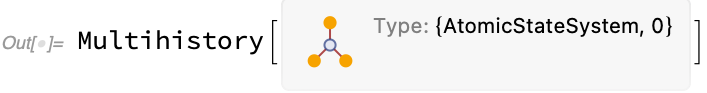
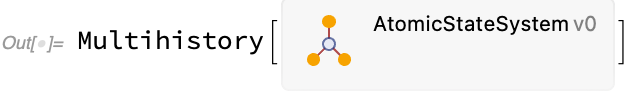
Update docs.

Changed region(s): [[0.0, 0.1505, 0.9937, 0.7312]]

diff --git a/Documentation/Types/Multihistory/AtomicStateSystem0.md b/Documentation/Types/Multihistory/AtomicStateSystem0.md
@@ -1,6 +1,6 @@
-# {AtomicStateSystem, 0}
+# AtomicStateSystem Multihistory
 
-**`{AtomicStateSystem, 0}`** is a [`Multihistory`](README.md) type currently returned by
+[**`AtomicStateSystem`**](/Documentation/Systems/AtomicStateSystem.md) [`Multihistory`](README.md) object is returned by
 [generators](/Documentation/Generators/README.md) of the
 [`AtomicStateSystem`](/Documentation/Systems/AtomicStateSystem.md):
 
@@ -8,8 +8,8 @@
 In[] := GenerateMultihistory[AtomicStateSystem[a_ :> a + 1], MaxEvents -> 10][0]
 ```
 
-<img src="/Documentation/Images/AtomicStateMultihistory.png" width="424.2">
+<img src="/Documentation/Images/AtomicStateMultihistory.png" width="378.6">
 
 Internally, [`AtomicStateSystem`](/Documentation/Systems/AtomicStateSystem.md) is implemented by running a special case
-of the [`MultisetSubstitutionSystem`](/Documentation/Systems/MultisetSubstitutionSystem.md). `{AtomicStateSystem, 0}`
-contains a corresponding [`{MultisetSubstitutionSystem, 0}`](MultisetSubstitutionSystem0.md) and can be converted to it.
+of the [`MultisetSubstitutionSystem`](/Documentation/Systems/MultisetSubstitutionSystem.md). The object contains a
+[`MultisetSubstitutionSystem` multihistory](MultisetSubstitutionSystem0.md) and can be converted to it.

diff --git a/Documentation/Generators/MaxDestroyerEvents.md b/Documentation/Generators/MaxDestroyerEvents.md
@@ -6,7 +6,7 @@ setting `MaxDestroyerEvents` to one.
 
 ```wl
 In[] := #["ExpressionsEventsGraph", VertexLabels -> Placed[Automatic, After]] & @
-  SetReplaceTypeConvert[{WolframModelEvolutionObject, 2}] @
+  SetReplaceTypeConvert[WolframModelEvolutionObject] @
     GenerateMultihistory[MultisetSubstitutionSystem[{a_, b_} :> {a + b}], MaxDestroyerEvents -> 1] @ {1, 2, 3}
 ```
 
@@ -17,7 +17,7 @@ full multihistory object subject to other selection and stopping parameters:
 
 ```wl
 In[] := #["ExpressionsEventsGraph", VertexLabels -> Placed[Automatic, After]] & @
-  SetReplaceTypeConvert[{WolframModelEvolutionObject, 2}] @
+  SetReplaceTypeConvert[WolframModelEvolutionObject] @
     GenerateMultihistory[
       MultisetSubstitutionSystem[{a_, b_} :> {a + b}], MaxDestroyerEvents -> Infinity, MaxGeneration -> 1] @ {1, 2, 3}
 ```
@@ -28,7 +28,7 @@ If set to a finite number, it will generate a partial multihistory:
 
 ```wl
 In[] := #["ExpressionsEventsGraph", VertexLabels -> Placed[Automatic, After]] & @
-  SetReplaceTypeConvert[{WolframModelEvolutionObject, 2}] @
+  SetReplaceTypeConvert[WolframModelEvolutionObject] @
     GenerateMultihistory[MultisetSubstitutionSystem[{a_, b_} :> {a + b}], MaxDestroyerEvents -> 5] @ {1, 2, 3}
 ```
 

diff --git a/Documentation/Generators/MaxGeneration.md b/Documentation/Generators/MaxGeneration.md
@@ -14,7 +14,7 @@ generations. In the following example, the tokens and events are labeled with th
 In[] := #["ExpressionsEventsGraph",
           VertexLabels -> Placed["Name", After, Replace[{{"Expression", n_} :> #["ExpressionGenerations"][[n]],
                                                          {"Event", n_} :> #["EventGenerations"][[n]]}]]] & @
-  SetReplaceTypeConvert[{WolframModelEvolutionObject, 2}] @
+  SetReplaceTypeConvert[WolframModelEvolutionObject] @
     GenerateMultihistory[MultisetSubstitutionSystem[{a__} /; Total[{a}] == 5 :> {Total[{a}] - 1, Total[{a}] + 1}],
                          MaxEvents -> 3] @ {1, 2, 3}
 ```
@@ -25,7 +25,7 @@ Restricting the number of generations to one will prevent the last two events fr
 another event is created instead:
 
 ```wl
-In[] := #["ExpressionsEventsGraph"] & @ SetReplaceTypeConvert[{WolframModelEvolutionObject, 2}] @
+In[] := #["ExpressionsEventsGraph"] & @ SetReplaceTypeConvert[WolframModelEvolutionObject] @
   GenerateMultihistory[MultisetSubstitutionSystem[{a__} /; Total[{a}] == 5 :> {Total[{a}] - 1, Total[{a}] + 1}],
                        MaxGeneration -> 1, MaxEvents -> 3] @ {1, 2, 3}
 ```

diff --git a/Documentation/Types/Multihistory/MultisetSubstitutionSystem0.md b/Documentation/Types/Multihistory/MultisetSubstitutionSystem0.md
@@ -1,14 +1,14 @@
 # {MultisetSubstitutionSystem, 0}
 
-**`{MultisetSubstitutionSystem, 0}`** is a [`Multihistory`](README.md) type currently returned by
-[generators](/Documentation/Generators/README.md) of the
+[**`MultisetSubstitutionSystem`**](/Documentation/Systems/MultisetSubstitutionSystem.md) [`Multihistory`](README.md)
+object is returned by [generators](/Documentation/Generators/README.md) of the
 [`MultisetSubstitutionSystem`](/Documentation/Systems/MultisetSubstitutionSystem.md):
 
 ```wl
 In[] := GenerateMultihistory[MultisetSubstitutionSystem[{a_, b_} :> {a + b}], MaxEvents -> 10] @ {1, 2, 3}
 ```
 
-<img src="/Documentation/Images/MultisetMultihistory.png" width="472.2">
+<img src="/Documentation/Images/MultisetMultihistory.png" width="426.6">
 
 It is implemented as an [`Association`](https://reference.wolfram.com/language/guide/Associations.html) of
 [data structures](https://reference.wolfram.com/language/ref/DataStructure.html) containing information about the rules,

diff --git a/Documentation/TypeSystem/$SetReplaceTypeGraph.md b/Documentation/TypeSystem/$SetReplaceTypeGraph.md
@@ -8,11 +8,10 @@
 In[] := $SetReplaceTypeGraph
 ```
 
-<img src="/Documentation/Images/$SetReplaceTypeGraph.png" width="816.6">
+<img src="/Documentation/Images/$SetReplaceTypeGraph.png" width="787.8">
 
 It is a [`Graph`](https://reference.wolfram.com/language/ref/Graph.html) representation of a directed hypergraph with
 types and properties as vertices and implementations of translations and properties as edges.
 
-All vertices have the form `kind[name]`, where `kind` can be either [`SetReplaceType`](SetReplaceType.md),
-[`SetReplaceProperty`](SetReplaceProperty.md) or [`SetReplaceMethodImplementation`](SetReplaceMethodImplementation.md),
-and `name` is either a type specification or a symbol.
+Vertex heads are either [`SetReplaceType`](SetReplaceType.md), [`SetReplaceProperty`](SetReplaceProperty.md) or
+[`SetReplaceMethodImplementation`](SetReplaceMethodImplementation.md).

diff --git a/Documentation/Generators/README.md b/Documentation/Generators/README.md
@@ -22,7 +22,7 @@ For example, [`GenerateSingleHistory`](GenerateSingleHistory.md) corresponds to
 
 ```wl
 In[] := #["ExpressionsEventsGraph", VertexLabels -> Placed[Automatic, After]] & @
-  SetReplaceTypeConvert[{WolframModelEvolutionObject, 2}] @
+  SetReplaceTypeConvert[WolframModelEvolutionObject] @
     GenerateSingleHistory[MultisetSubstitutionSystem[{a_, b_} /; a < b :> {a + b}]] @ {1, 2, 3, 4}
 ```
 
@@ -33,7 +33,7 @@ We can also use a more general [`GenerateMultihistory`](GenerateMultihistory.md)
 
 ```wl
 In[] := #["ExpressionsEventsGraph", VertexLabels -> Placed[Automatic, After]] & @
-  SetReplaceTypeConvert[{WolframModelEvolutionObject, 2}] @
+  SetReplaceTypeConvert[WolframModelEvolutionObject] @
     GenerateMultihistory[
       MultisetSubstitutionSystem[{a_, b_} /; a < b :> {a + b}], MaxDestroyerEvents -> 2] @ {1, 2, 3, 4}
 ```

diff --git a/Documentation/Systems/MultisetSubstitutionSystem.md b/Documentation/Systems/MultisetSubstitutionSystem.md
@@ -18,7 +18,7 @@ For example, to make a system that adds pairs of numbers:
 
 ```wl
 In[] := #["ExpressionsEventsGraph", VertexLabels -> Placed[Automatic, After]] & @
-  SetReplaceTypeConvert[{WolframModelEvolutionObject, 2}] @
+  SetReplaceTypeConvert[WolframModelEvolutionObject] @
     GenerateSingleHistory[MultisetSubstitutionSystem[{a_, b_} /; a < b :> {a + b}]] @ {1, 2, 3, 4}
 ```
 
@@ -32,7 +32,7 @@ generates a list. For example:
 
 ```wl
 In[] := #["ExpressionsEventsGraph", VertexLabels -> Placed[Automatic, After]] & @
-  SetReplaceTypeConvert[{WolframModelEvolutionObject, 2}] @
+  SetReplaceTypeConvert[WolframModelEvolutionObject] @
     GenerateMultihistory[
       MultisetSubstitutionSystem[{a__} /; OrderedQ[{a}] && PrimeQ[Plus[a]] :> First /@ FactorInteger[Plus[a]]],
       MinEventInputs -> 2, MaxEventInputs -> 4] @ {1, 2, 3, 4}

diff --git a/Documentation/Types/README.md b/Documentation/Types/README.md
@@ -5,8 +5,8 @@ generation of data (such as the data about the evaluation of a
 [nondeterministic system](/Documentation/Systems/README.md)) and computation of
 [properties](/Documentation/Properties/README.md) from that data.
 
-The usual form for the type spec is `{system, version}`, e.g., `{MultisetSubstitutionSystem, 0}`.
+Multihistory types are named after systems that produce them, e.g., `SetReplaceType[MultisetSubstitutionSystem, 1]`.
 
 * [`Multihistory`](Multihistory/README.md) &mdash; a generic kind of types for computational systems:
-  * [`{AtomicStateSystem, 0}`](AtomicStateSystem0.md)
-  * [`{MultisetSubstitutionSystem, 0}`](Multihistory/MultisetSubstitutionSystem0.md)
+  * [`AtomicStateSystem`](AtomicStateSystem0.md)
+  * [`MultisetSubstitutionSystem`](Multihistory/MultisetSubstitutionSystem0.md)

diff --git a/Documentation/Generators/MinEventInputs.md b/Documentation/Generators/MinEventInputs.md
@@ -7,7 +7,7 @@ Compare, for example, `MinEventInputs -> 0` (default):
 
 ```wl
 In[] := #["ExpressionsEventsGraph", VertexLabels -> Placed[Automatic, After]] & @
-  SetReplaceTypeConvert[{WolframModelEvolutionObject, 2}] @
+  SetReplaceTypeConvert[WolframModelEvolutionObject] @
     GenerateMultihistory[
       MultisetSubstitutionSystem[{a___} :> {Total[{a}]}], MinEventInputs -> 0, MaxEvents -> 10] @ {1, 2, 3}
 ```
@@ -18,7 +18,7 @@ and `MinEventInputs -> 2`:
 
 ```wl
 In[] := #["ExpressionsEventsGraph", VertexLabels -> Placed[Automatic, After]] & @
-  SetReplaceTypeConvert[{WolframModelEvolutionObject, 2}] @
+  SetReplaceTypeConvert[WolframModelEvolutionObject] @
     GenerateMultihistory[
       MultisetSubstitutionSystem[{a___} :> {Total[{a}]}], MinEventInputs -> 2, MaxEvents -> 10] @ {1, 2, 3}
 ```

diff --git a/Documentation/Types/Multihistory/README.md b/Documentation/Types/Multihistory/README.md
@@ -9,10 +9,10 @@ For example, for a [`MultisetSubstitutionSystem`](/Documentation/Systems/Multise
 In[] := GenerateMultihistory[MultisetSubstitutionSystem[{a_, b_} :> {a + b}], MaxEvents -> 10] @ {1, 2, 3}
 ```
 
-<img src="/Documentation/Images/MultisetMultihistory.png" width="472.2">
+<img src="/Documentation/Images/MultisetMultihistory.png" width="426.6">
 
 You will be able to use [`properties`](/Documentation/Properties/README.md) to extract information about multihistories,
 but we have not implemented any properties yet.
 
-* [`{AtomicStateSystem, 0}`](AtomicStateSystem0.md)
-* [`{MultisetSubstitutionSystem, 0}`](MultisetSubstitutionSystem0.md)
+* [`AtomicStateSystem`](AtomicStateSystem0.md)
+* [`MultisetSubstitutionSystem`](MultisetSubstitutionSystem0.md)

diff --git a/Documentation/Systems/AtomicStateSystem.md b/Documentation/Systems/AtomicStateSystem.md
@@ -5,8 +5,13 @@ left that can match these states, and the arbitrary code on the right that creat
 
 ```wl
 In[] := #["ExpressionsEventsGraph", VertexLabels -> Placed[Automatic, After]] & @
-  SetReplaceTypeConvert[{WolframModelEvolutionObject, 2}] @
+<<<<<<< HEAD
+  SetReplaceTypeConvert[WolframModelEvolutionObject] @
     GenerateMultihistory[AtomicStateSystem[{n_ :> n + 1, n_ :> n - 1}], MaxGeneration -> 4][0]
+=======
+  SetReplaceTypeConvert[WolframModelEvolutionObject] @
+    GenerateMultihistory[AtomicStateSystem[{n_ :> n + 1, n_ :> n - 1}], 0, MaxGeneration -> 4]
+>>>>>>> 76631cf5 (Update docs.)
 ```
 
 <img src="/Documentation/Images/AtomicStateSystemExample.png" width="858.6">

diff --git a/Documentation/Generators/GenerateMultihistory.md b/Documentation/Generators/GenerateMultihistory.md
@@ -12,11 +12,11 @@ In[] := multihistory = GenerateMultihistory[
   MultisetSubstitutionSystem[{a_, b_} :> {a + b}], MaxDestroyerEvents -> 3, MaxEvents -> 10] @ {1, 2, 3, 4}
 ```
 
-<img src="/Documentation/Images/MultisetMultihistory.png" width="472.2">
+<img src="/Documentation/Images/MultisetMultihistory.png" width="426.6">
 
 ```wl
 In[] := #["ExpressionsEventsGraph", VertexLabels -> Placed[Automatic, After]] & @
-  SetReplaceTypeConvert[{WolframModelEvolutionObject, 2}] @ multihistory
+  SetReplaceTypeConvert[WolframModelEvolutionObject] @ multihistory
 ```
 
 <img src="/Documentation/Images/GenerateMultihistoryExample.png" width="478.2">
